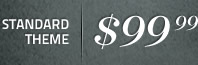
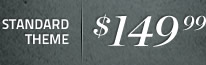
more tweaking progo.com/direct page to include jquery slideshow of color schemes on top laptop, and price increase to 149.99

diff --git a/style.css b/style.css
@@ -19,11 +19,13 @@ a { color: #DE7916; }
 #container { background: #e3e3e3 url(images/page.png) repeat-y 0 0; }
 #container.direct { background-color: #fff; }
 #topimg { border-top: 1px solid #e7e7e7; margin-left: -10px; width: 699px; height: 420px; }
-#arrow span { font-weight: 400; }
-#arrow { width: 722px; padding: 34px 0 0; text-align: center; background: url(images/arrow.png) no-repeat 0 100%; margin-left: -20px; }
+#arrow span { font-weight: 400; letter-spacing:0.03em }
+.ngg-slideshow.lapcolors { position: absolute; top: 108px; left: 145px; z-index: 2; }
+#directprice { display: block; width: 183px; height: 177px; position: absolute; top: 138px; left: 21px; z-index: 3; background: url(images/directprice.png) no-repeat 0 0; }
+#arrow { width: 722px; padding: 33px 0 1px; text-align: center; background: url(images/arrow.png) no-repeat 0 100%; margin-left: -20px; }
 .pform { width: 260px; padding: 0 0 12px; background: url(images/form.jpg) no-repeat 0 -114px; border-left: none; border-bottom: none; float: right; margin-right: -10px }
 .pform, .pform fieldset, .pform h3 { color: #fff; }
-.pform h3#rh { display: block; width: 198px; height: 65px; margin: 23px 0 -4px 30px; text-indent: -999em; background: url(images/rh.jpg) no-repeat 0 0; }
+.pform h3#rh { display: block; width: 206px; height: 65px; margin: 22px 0 -3px 24px; text-indent: -999em; background: url(images/rh.jpg) no-repeat 0 0; }
 .pform.direct table.wpsc_checkout_table { height: 497px; }
 .pform.direct table.wpsc_checkout_table label { display:none !important; }
 .pform fieldset { width: 237px; /*260-23*/ padding-left: 2px; }

diff --git a/functions.php b/functions.php
@@ -34,6 +34,9 @@ function progodirect_contenttop() {
 	if ( class_exists('MultiPostThumbnails') && MultiPostThumbnails::has_post_thumbnail('page', 'fw-image', $post->ID) ) {
 		MultiPostThumbnails::the_post_thumbnail('page', 'fw-image', $post->ID, 'fullw', array( 'class' => 'fw' ) );
 	}
+	
+	echo nggShow_JS_Slideshow(2, 408, 255, 'ngg-slideshow lapcolors');
+	echo '<div id="directprice"></div>';
 }
 
 function progo_direct_charcutoff($field) {
